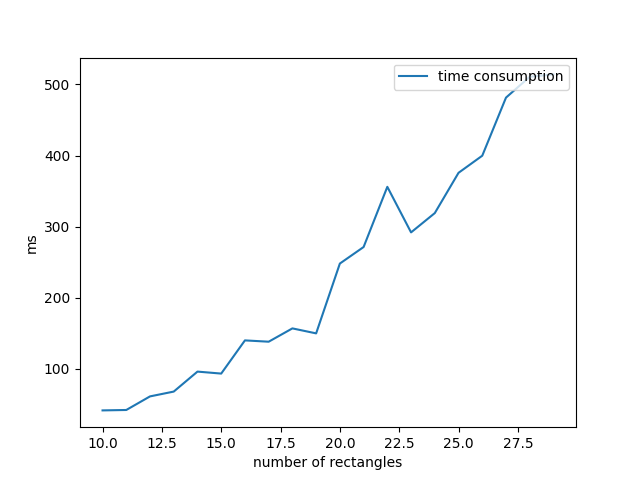
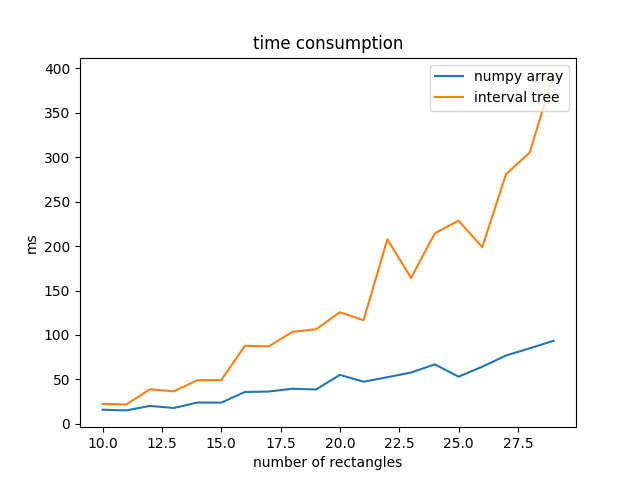
compare benchmark to a simple algorithm based on numpy arrays
The numpy-baseline algorithm stores used/free pixels in a matrix and re-calculates the maximum rectangles after each update.

 - the baseline algorithm seems to have linear complexity in the number of rectangles placed
 - the interval tree algorithm seems to have at least quadratic complexity in the number of rectangles placed.

diff --git a/docu/visualizations.py b/docu/visualizations.py
@@ -3,6 +3,8 @@ import random
 import time
 
 import numpy as np
+from numpy import ndarray
+from sortedcontainers import SortedList
 from tqdm import tqdm
 from matplotlib.axes import Axes
 from matplotlib.cm import get_cmap
@@ -13,6 +15,98 @@ from rportion import rclosed, rclosedopen, RPolygon
 from matplotlib import pyplot as plt
 
 from rportion.rportion import rempty
+
+
+def max_pos(ind: int, vector: ndarray[(None,), int]):
+    """
+    Get lower and upper indices of the largest zero region in vector containing ind.
+
+                   0  1  2  3  4  5  6
+    f(3, np.array([0, 1, 0, 0, 0, 0, 1]) == (2, 5)
+    """
+    used_inds = np.nonzero(vector != 0)[0]
+    higher_inds = used_inds[used_inds >= ind]
+    lower_inds = used_inds[used_inds <= ind]
+    if higher_inds.size > 0:
+        highest_ind = higher_inds.min() - 1
+    else:
+        highest_ind = vector.size - 1
+    if lower_inds.size > 0:
+        lowest_ind = lower_inds.max() + 1
+    else:
+        lowest_ind = 0
+    if lowest_ind <= highest_ind:
+        return lowest_ind, highest_ind
+    else:
+        return None
+
+
+def get_maximal_rectangles_from_numpy(occupation_mat: ndarray):
+    """
+    Return all maximal rectangles than can be fitted into the free spaces specified by matrix. Zero value
+    means that the location is free. I.e. for
+
+                         0  1  2  3  4
+                    ---+---------------
+                     0 | 0  0  0  0  0
+                     1 | 0  1  1  0  0
+        usage_mat =  2 | 0  1  1  1  0
+                     3 | 0  0  1  1  0
+                     4 | 0  0  0  0  0
+
+    the return will contain six rectangles.
+
+        x0 x1   y0 y1
+        -------------
+         0  5    0  1
+         0  5    4  5
+         0  2    3  5
+         0  1    0  5
+         3  5    0  2
+         4  5    0  5
+
+    Parameters
+    ----------
+    occupation_mat : ndarray
+        2d numpy matrix containing zero values for free pixels and non zero values for non free pixels
+
+    Returns
+    -------
+    free_sectors: SortedList[(int, int, int, int)]
+    """
+    free_rectangles = SortedList([])
+    # For every pixel start by growing in word line direction and after that in bit line direction.
+    finished_pixels = occupation_mat.copy()
+    while True:
+        if np.all(finished_pixels != 0):
+            break
+        argmax = np.argmax((finished_pixels == 0).flatten())
+        x, y = np.unravel_index(argmax, occupation_mat.shape)
+        pos_x = max_pos(x, occupation_mat[:, y])
+        if pos_x is not None:
+            pos_y = max_pos(y, np.max(occupation_mat[pos_x[0]:pos_x[1] + 1, :] != 0, axis=0))
+            if pos_y is not None:
+                new_coords = pos_x[0], pos_x[1] + 1, pos_y[0], pos_y[1] + 1
+                finished_pixels[pos_x[0]:pos_x[1] + 1, pos_y[0]:pos_y[1] + 1] = 1
+                if new_coords not in free_rectangles:
+                    free_rectangles.add(new_coords)
+    # For every pixel start by growing in bit line direction and after that in word line direction.
+    finished_pixels = occupation_mat.copy()
+    while True:
+        if np.all(finished_pixels != 0):
+            break
+        argmax = np.argmax((finished_pixels == 0).flatten())
+        x, y = np.unravel_index(argmax, occupation_mat.shape)
+        pos_y = max_pos(y, occupation_mat[x, :])
+        if pos_y is not None:
+            pos_x = max_pos(x, np.max(occupation_mat[:, pos_y[0]:pos_y[1] + 1] != 0, axis=1))
+            if pos_y is not None:
+                new_coords = pos_x[0], pos_x[1] + 1, pos_y[0], pos_y[1] + 1
+                finished_pixels[pos_x[0]:pos_x[1] + 1, pos_y[0]:pos_y[1] + 1] = 1
+                if new_coords not in free_rectangles:
+                    free_rectangles.add(new_coords)
+
+    return free_rectangles
 
 
 def plot_rectangles(ax: Axes,
@@ -88,7 +182,6 @@ def create_gif():
         ax.set_ylim(y_lim, )
         ax.legend(loc="upper right")
         fig.savefig(os.path.join(output_folder, f"{filename_base}-{i}.png"))
-        fig.close()
 
     with imageio.get_writer(os.path.join(f"{filename_base}.gif"),
                             mode='I', duration=1) as writer:
@@ -105,81 +198,142 @@ def create_random_polygon(n: int, x_max: int, max_x_len: int, y_max: int, max_y_
         x_right = x_left + random.randint(0, max_x_len)
         y_left = random.randint(0, y_max - max_y_len)
         y_right = y_left + random.randint(0, max_y_len)
-        r_list.append(rclosedopen(x_left, x_right, y_left, y_right))
+        r_list.append((x_left, x_right, y_left, y_right))
 
     if show_progress:
         iterator = tqdm(list(zip(r_list[::2], r_list[1::2])))
     else:
         iterator = list(zip(r_list[::2], r_list[1::2]))
 
-    poly = RPolygon()
+    polygons = {
+        "numpy array": np.zeros((x_max + 1, y_max + 1)),
+        "interval tree": RPolygon(),
+    }
+    times = {
+        "numpy array": np.zeros(n),
+        "interval tree": np.zeros(n),
+    }
     i = 0
-    times = np.zeros(n)
     for r1, r2 in iterator:
+        # Rectangle 1
         start_time = time.time()
-        poly |= r1
+        polygons["numpy array"][r1[0]:r1[1], r1[2]:r1[3]] = 1
+        get_maximal_rectangles_from_numpy(polygons["numpy array"])
         end_time = time.time()
-        times[i] = (end_time - start_time) * 1000.0
-        i += 1
+        times["numpy array"][i] = (end_time - start_time) * 1000.0
 
         start_time = time.time()
-        poly -= r2
+        polygons["interval tree"] |= rclosedopen(*r1)
         end_time = time.time()
-        times[i] = (end_time - start_time) * 1000.0
+        times["interval tree"][i] = (end_time - start_time) * 1000.0
+
         i += 1
 
-    return poly, times
+        # Rectangle 2
+        start_time = time.time()
+        polygons["numpy array"][r2[0]:r2[1], r2[2]:r2[3]] = 0
+        get_maximal_rectangles_from_numpy(polygons["numpy array"])
+        end_time = time.time()
+        times["numpy array"][i] = (end_time - start_time) * 1000.0
+
+        start_time = time.time()
+        polygons["interval tree"] -= rclosedopen(*r2)
+        end_time = time.time()
+        times["interval tree"][i] = (end_time - start_time) * 1000.0
+
+        i += 1
+
+    enclosing_rec = rclosed(0, x_max, 0, y_max)
+    max_rectangles = {
+        "numpy array": (
+            get_maximal_rectangles_from_numpy(polygons["numpy array"] == 0),
+            get_maximal_rectangles_from_numpy(polygons["numpy array"]),
+        ),
+        "interval tree": (
+            [coords
+             for rec in polygons["interval tree"].maximal_used_rectangles()
+             if (coords := bounding_coords(rec & enclosing_rec)) is not None],
+            [coords
+             for rec in polygons["interval tree"].maximal_free_rectangles()
+             if (coords := bounding_coords(rec & enclosing_rec)) is not None],
+        )
+    }
+
+    return max_rectangles, times
 
 
 def evaluate_random_polygon(save_image=True):
-    N = 100
-    x_max = N
-    y_max = N
+    n = 30
+    x_max = 512
+    max_x_len = 128
+    y_max = 512
+    max_y_len = 128
 
-    poly, times = create_random_polygon(n=N,
-                                        x_max=x_max, max_x_len=20,
-                                        y_max=y_max, max_y_len=20,
-                                        show_progress=True)
+    repetitions = 10
+    max_rectangles_dict, times_dict = create_random_polygon(n=n,
+                                                            x_max=x_max, max_x_len=max_x_len,
+                                                            y_max=y_max, max_y_len=max_y_len,
+                                                            show_progress=True)
+    for _ in range(repetitions - 1):
+
+        _, curr_times_dict = create_random_polygon(
+            n=n,
+            x_max=x_max, max_x_len=max_x_len,
+            y_max=y_max, max_y_len=max_y_len,
+            show_progress=True
+        )
+        for name, curr_times in curr_times_dict.items():
+            times_dict[name] += curr_times
+
+    for name in times_dict:
+        times_dict[name] /= repetitions
 
     if save_image:
-        fig, axes = plt.subplots(1, 2, figsize=(10, 4))
+        fig, axes = plt.subplots(1, 3, figsize=(15, 4))
 
         x_lim = (0, x_max)
         y_lim = (0, y_max)
 
-        plot_rpolygon(axes[0], poly, (x_lim, y_lim))
-        axes[0].set_xlim(x_lim)
-        axes[0].set_ylim(y_lim, )
-        axes[0].legend(loc="upper right")
-        axes[0].set_title("random sequence of unions/subtractions")
+        for i, (name, max_rectangles) in enumerate(max_rectangles_dict.items()):
+            plot_rectangles(axes[i], max_rectangles[0], 3, "used")
+            plot_rectangles(axes[i], max_rectangles[1], 0, "free")
+            axes[i].set_xlim(x_lim)
+            axes[i].set_ylim(y_lim, )
+            axes[i].legend(loc="upper right")
+            axes[i].set_title(f"{name}")
 
-        axes[1].plot(times, label="")
-        axes[1].set_ylabel("ms")
-        axes[1].set_ylabel("index of union/subtraction")
-        axes[1].set_title("time consumption of every union/subtraction")
+        for name, times in times_dict.items():
+            axes[-1].plot(times, label=name)
+            axes[-1].set_xlabel("index of union/subtraction")
+            axes[-1].set_ylabel("ms")
+            axes[-1].set_title("time consumption per step")
+        axes[-1].legend(loc="upper right")
 
         fig.savefig(f"random.png")
 
 
 def benchmark():
-    x_max = 100
-    y_max = 100
+    x_max = 512
+    max_x_len = 128
+    y_max = 512
+    max_y_len = 128
     N = np.arange(10, 30)
-    times = np.zeros(N.shape)
+    times = np.zeros((2, N.shape[0]))
 
-    repetitions = 10
+    repetitions = 3
 
     for i, n in tqdm(list(enumerate(N))):
-        start_time = time.time()
         for _ in range(repetitions):
-            create_random_polygon(n=n,
-                                  x_max=x_max, max_x_len=10,
-                                  y_max=y_max, max_y_len=10)
-        end_time = time.time()
-        times[i] = (end_time - start_time) * 1000.0 / repetitions
+            _, times_dict = create_random_polygon(n=n,
+                                                  x_max=x_max, max_x_len=max_x_len,
+                                                  y_max=y_max, max_y_len=max_y_len)
+        times[0, i] = times_dict["numpy array"].sum() / repetitions
+        times[1, i] = times_dict["interval tree"].sum() / repetitions
 
     fig, ax = plt.subplots(1, 1)
-    ax.plot(N, times, label="time consumption")
+    ax.plot(N, times[0], label=f"numpy array")
+    ax.plot(N, times[1], label=f"interval tree")
+    ax.set_title("time consumption")
     ax.set_xlabel("number of rectangles")
     ax.set_ylabel("ms")
     ax.legend(loc="upper right")
@@ -188,7 +342,7 @@ def benchmark():
 
 def main():
     print("creating gif")
-    # create_gif()
+    create_gif()
     print("evaluate a random sequence of unions and subtractions")
     evaluate_random_polygon()
     print("benchmark random sequence of unions and subtractions of increasing length")
